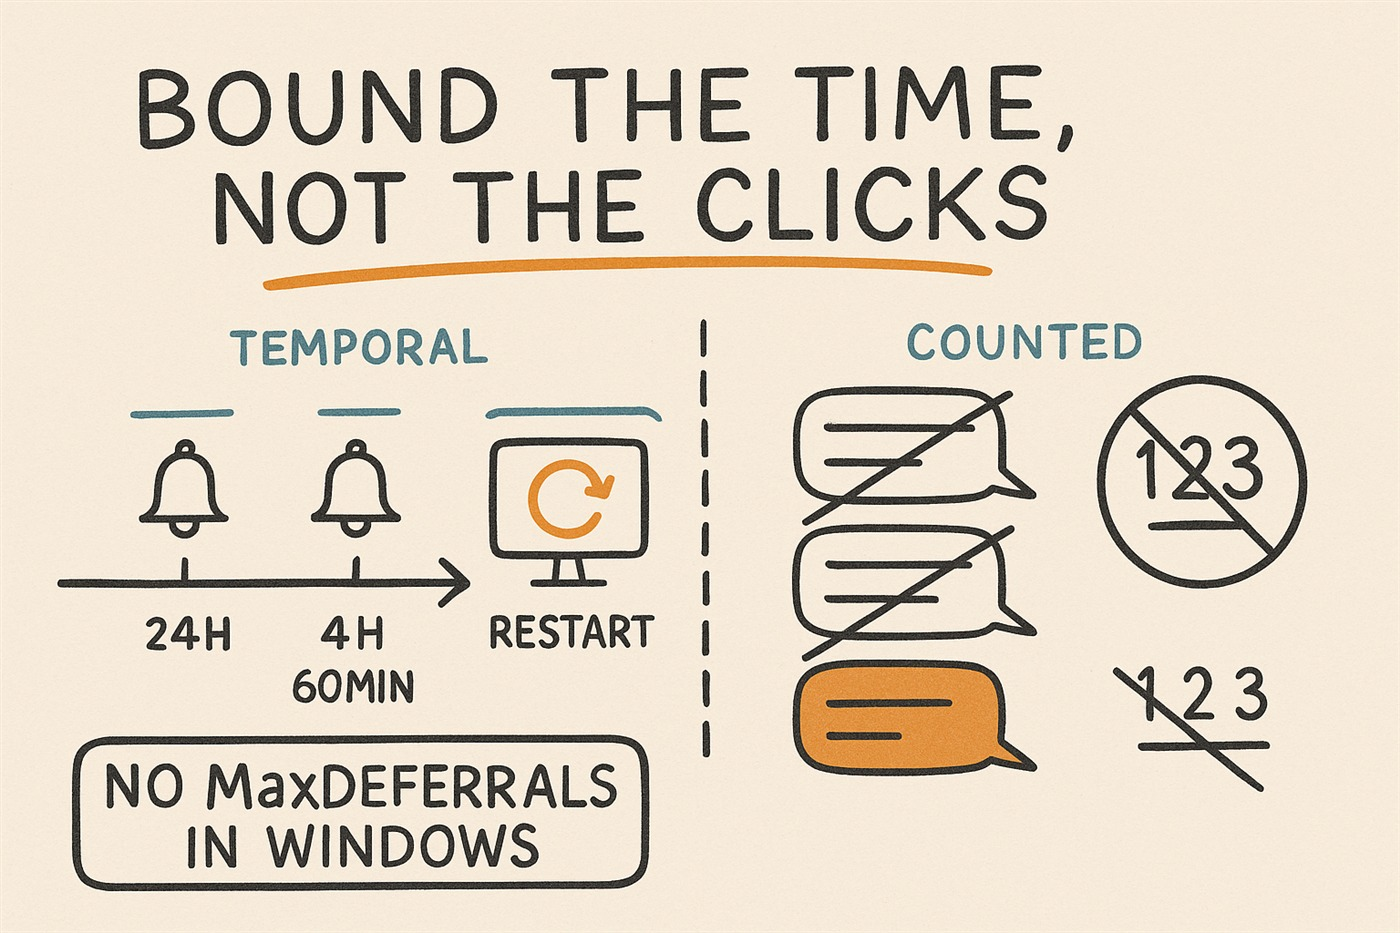
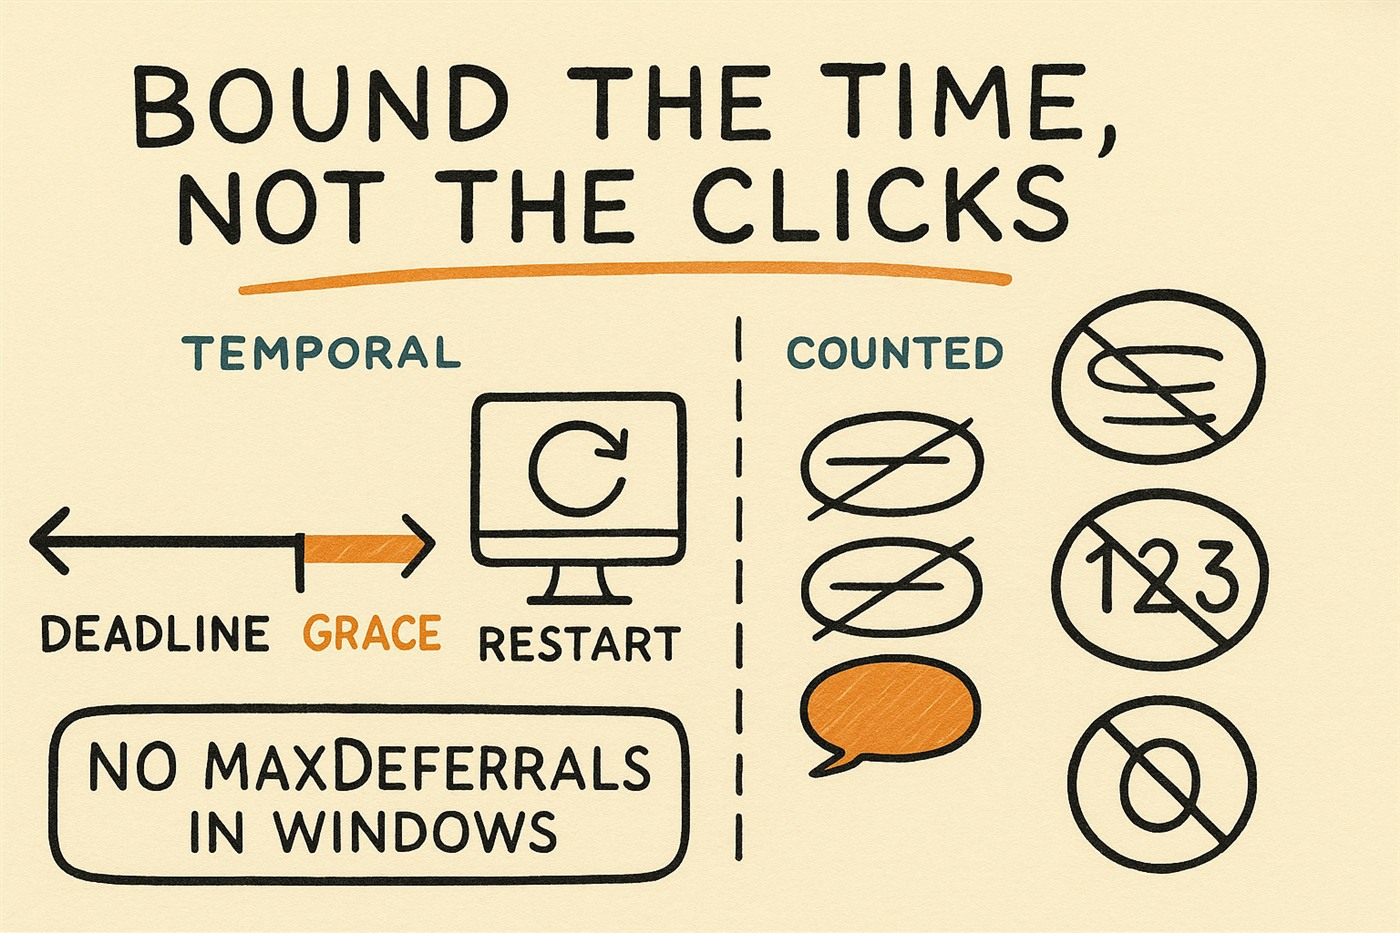
Align the artifacts with the correction, not just the README
The README carried the correction; the files still carried the old thinking.

expected-values.json is now split: expectedDeviceRegistry holds the supported
ConfigureDeadline* baseline, and the five notification policies move into an
opt-in legacyWindows10Only block, disabled.

Get-UpdateEvidence.ps1 now encodes the lesson instead of just documenting it.
It reports any legacy policy sitting on the device and, on Windows 11, states
that their presence proves delivery and nothing more. It refuses to merge the
legacy block into the comparison on a Windows 11 device even when enabled -
reporting those as OK is how false confidence gets manufactured. Verified on
both Windows PowerShell 5.1 and PowerShell 7, with the detection path unit
tested against a synthetic reading.

update-notifications.json is renamed and its description now carries the
warning, so the file states its own status without the README.

The concept diagram labelled the timeline 24H / 4H / 60MIN - the legacy cadence.
Redrawn as deadline, grace, restart: the model that is actually supported.

Changed region(s): [[0.0, 0.0622, 0.9521, 0.9636], [0.9829, 0.0, 1.0, 0.0311]]

diff --git a/README.md b/README.md
@@ -67,12 +67,19 @@ policies/
   update-ring.json            Update ring - 2-day deadline, 2-day grace, reboot postponed
   feature-update.json         Feature update profile - the version target, and the version lock
 tools/
-  Get-UpdateEvidence.ps1      Device-side evidence collector. Standalone, PowerShell 5.1+
-  expected-values.json        The values the collector checks for on the device
+  Get-UpdateEvidence.ps1      Device-side evidence collector. Standalone, PowerShell 5.1+.
+                              Flags legacy policies found on a Windows 11 device
+  expected-values.json        Supported baseline it checks for, plus the legacy block
+                              (opt-in, Windows 10 only)
 ```
 
 Three JSON payloads and one script. That is deliberately all of it — see
 [What is deliberately not here](#what-is-deliberately-not-here).
+
+The collector now carries the lesson from the correction: it reports any legacy policy sitting
+on the device, and on Windows 11 it states plainly that their presence proves delivery and
+nothing more. It refuses to merge the legacy block into the comparison on a Windows 11 device
+even if you enable it — reporting those as "OK" is how false confidence gets manufactured.
 
 ---
 
